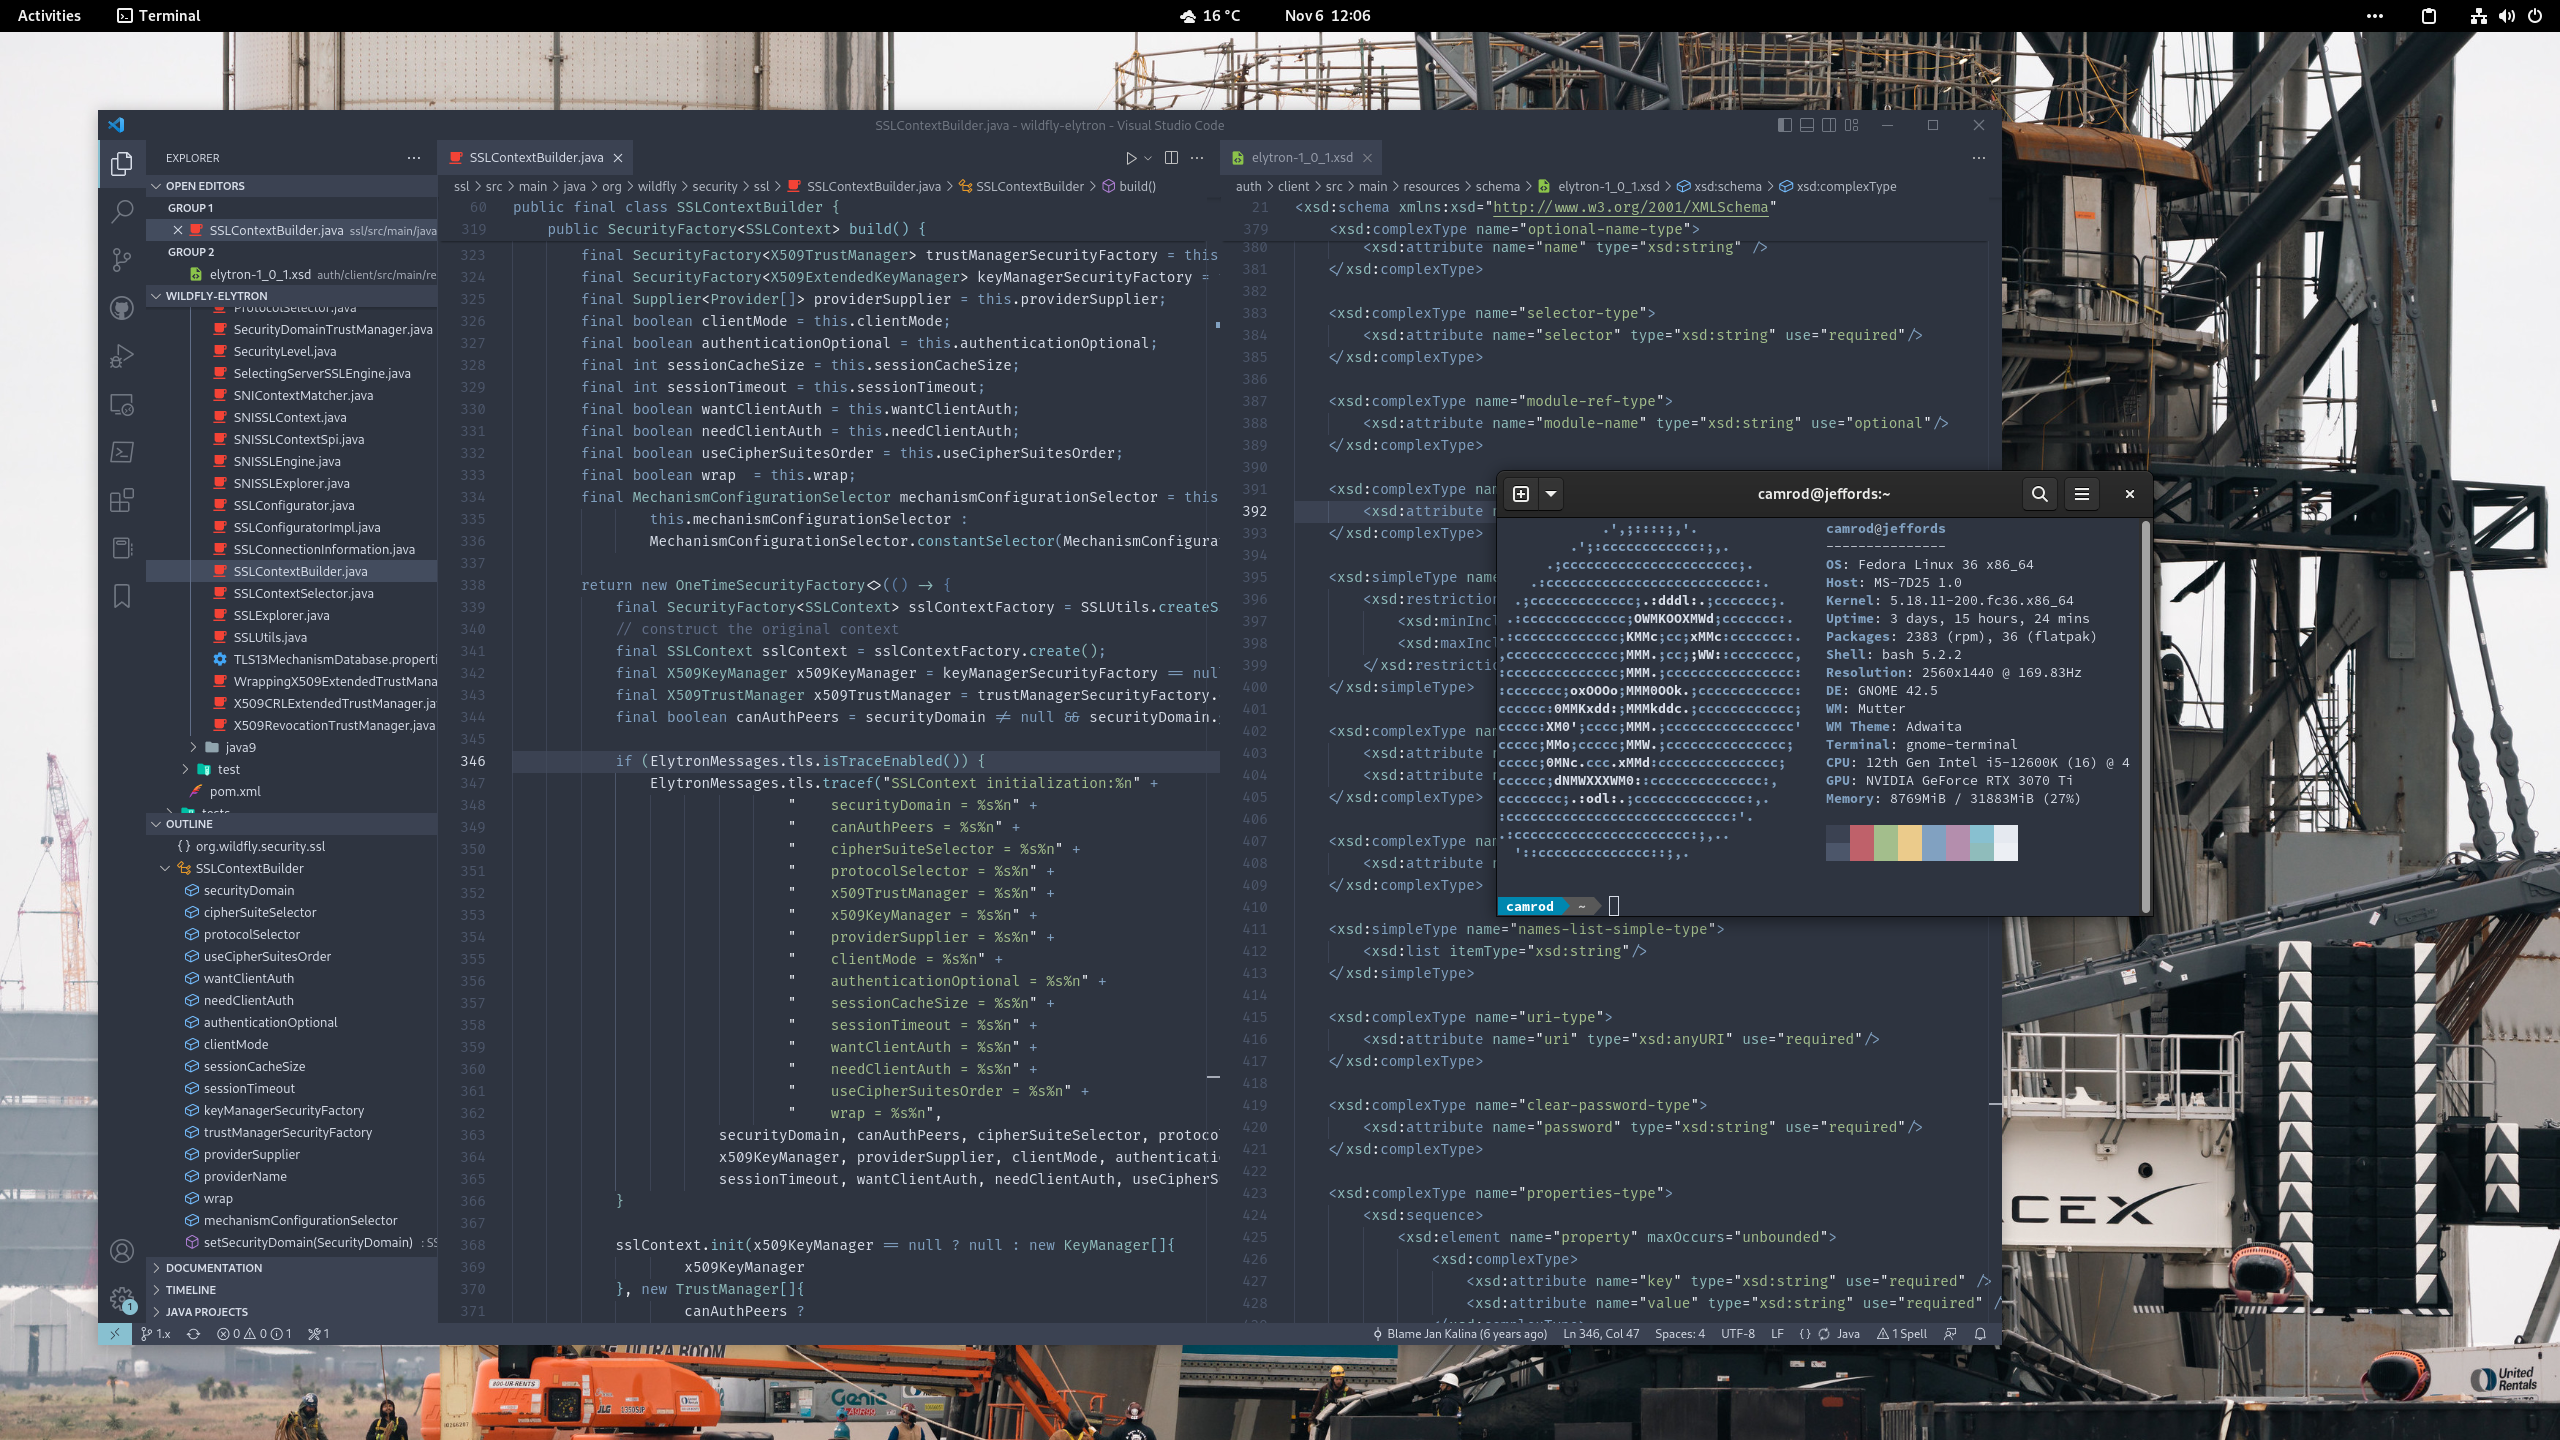
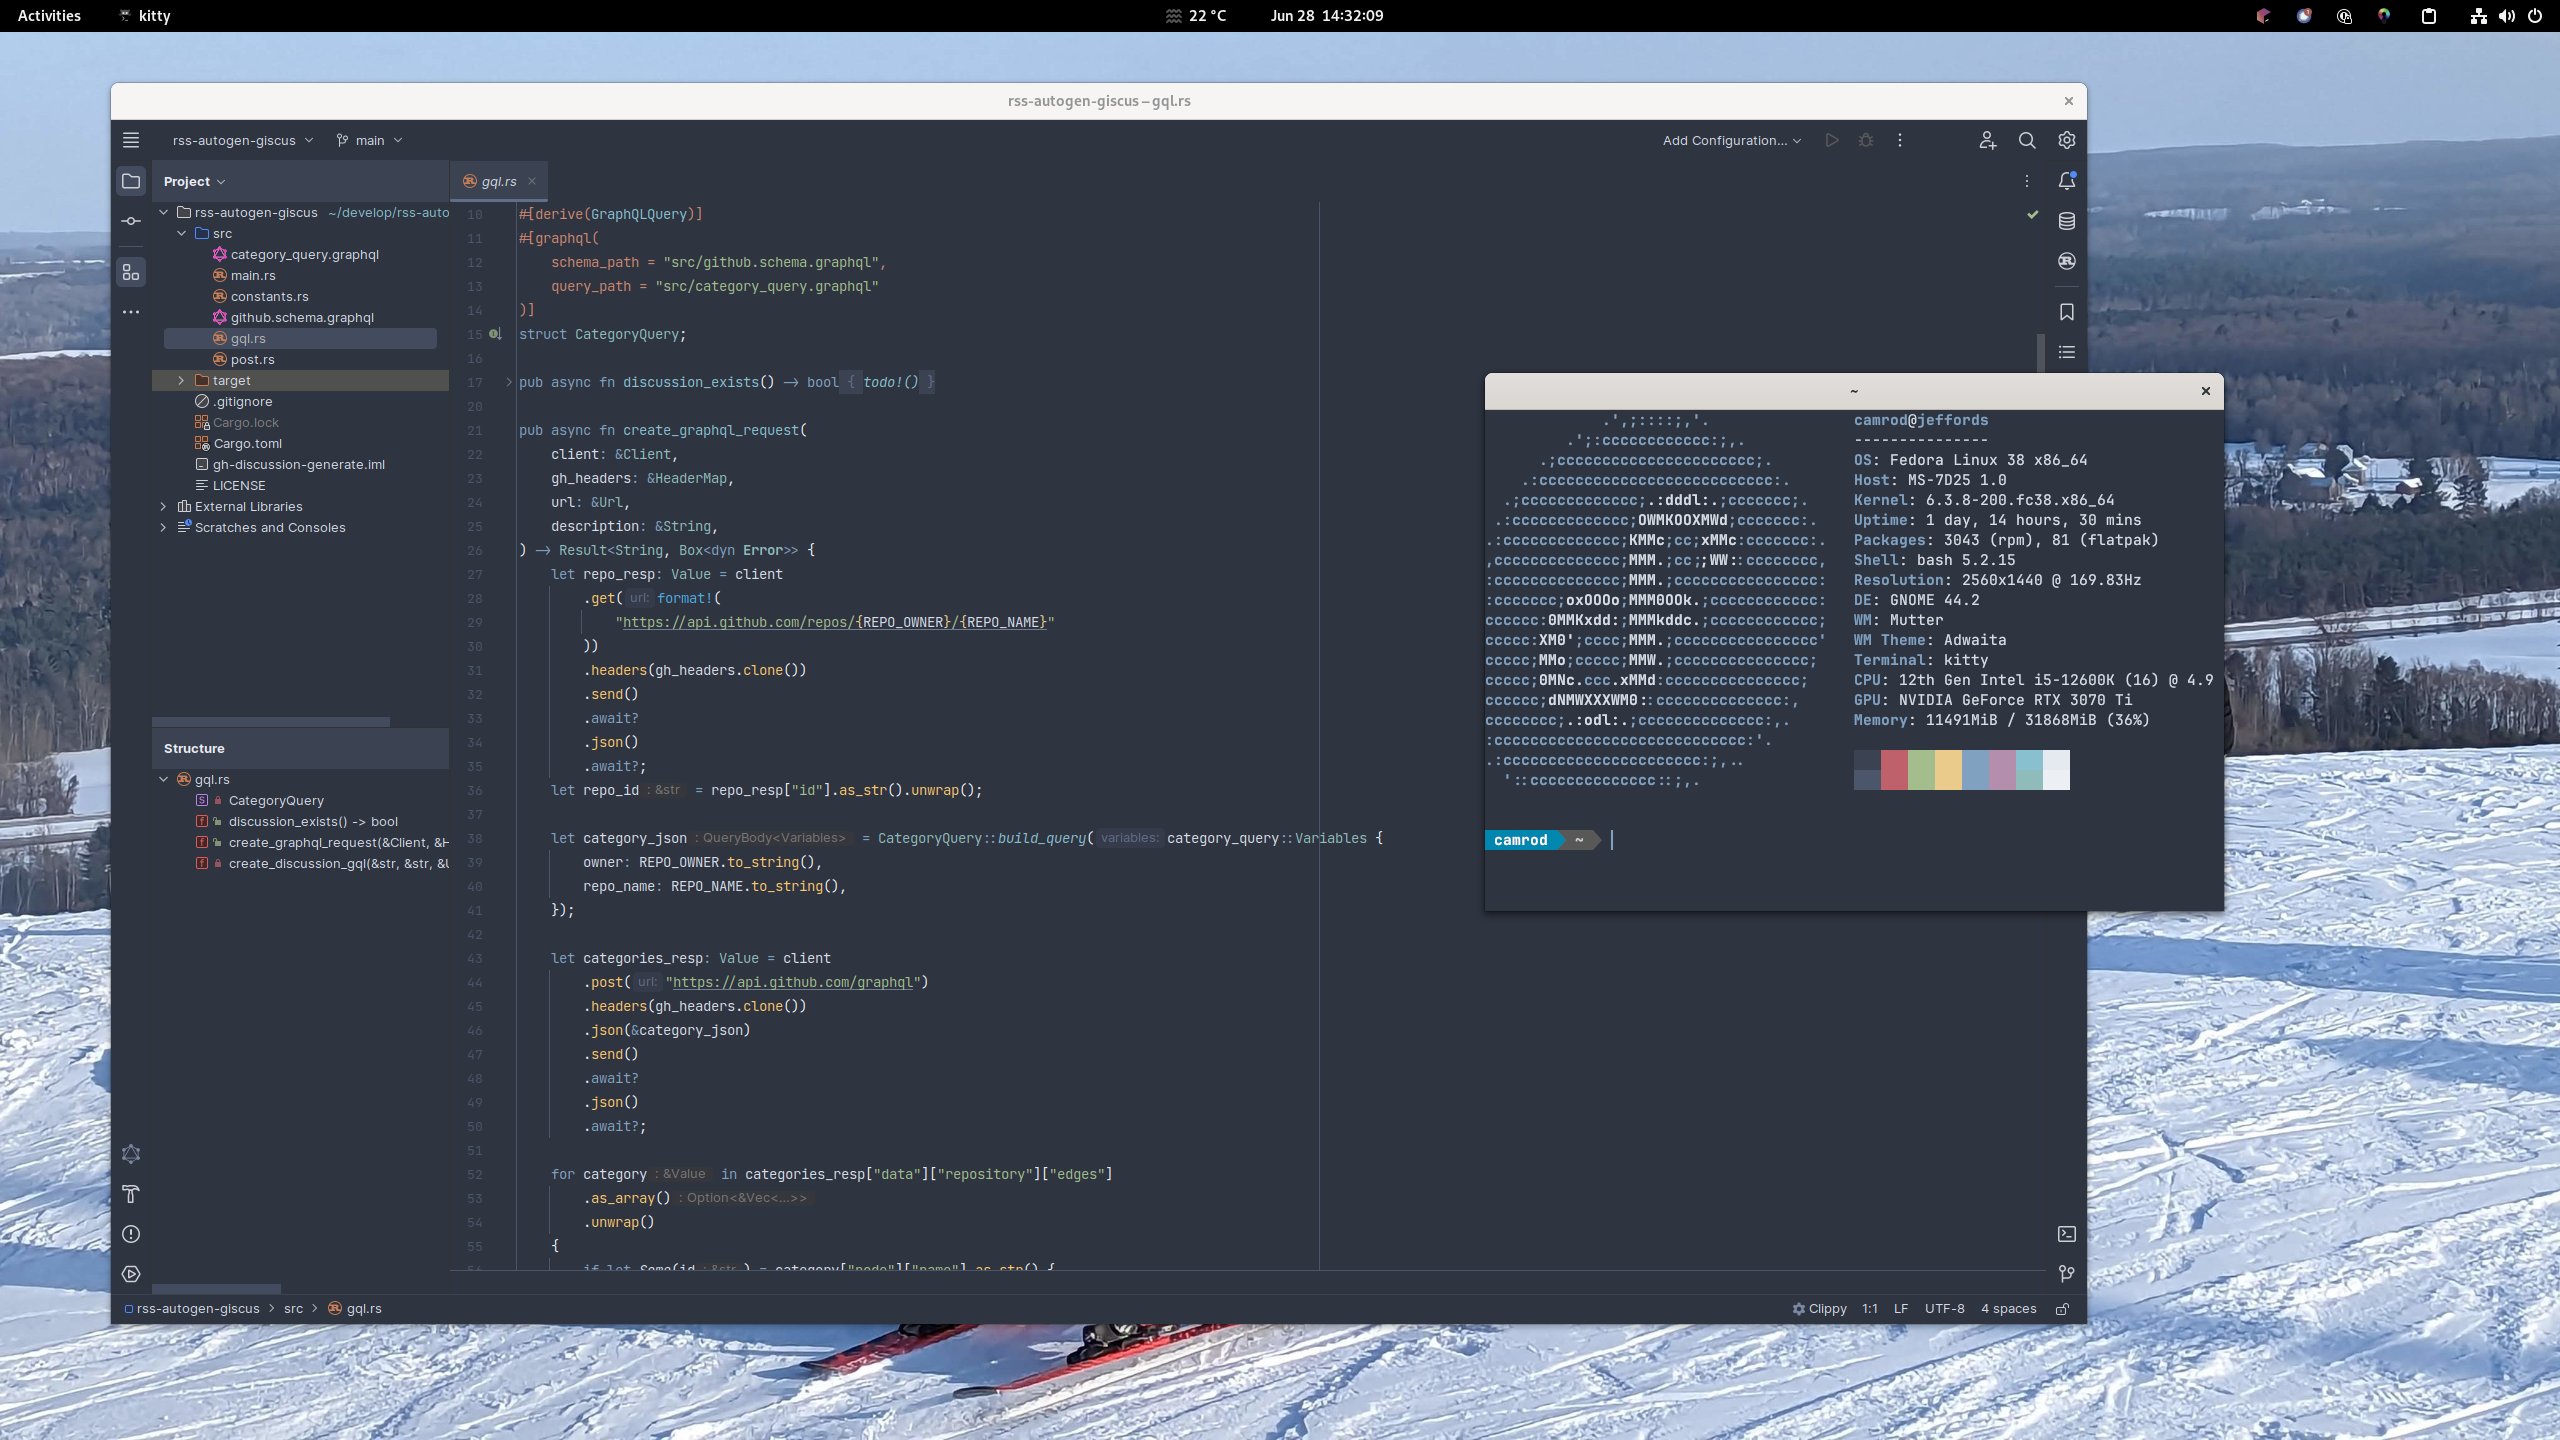
update theme photo

diff --git a/README.md b/README.md
@@ -6,9 +6,9 @@ I haven't put much work into making this easy to setup, so no guarantees are mad
 
 ## Details
 
-<img alt="Screenshot of my Fedora desktop, featuring VS Code and GNOME Terminal (now replaced by kitty). VS Code is opened to cam-rod/wildfly-elytron, and GNOME Terminal shows neofetch." style="max-width: 100%; height: auto; display: block; margin: 0px auto;" src=./assets/cam-rod_theme.png><br>
+<img alt="Screenshot of my Fedora desktop, featuring CLion and kitty. CLion is opened to cam-rod/rss-autogen-giscus, and kitty shows neofetch." style="max-width: 100%; height: auto; display: block; margin: 0px auto;" src=./assets/cam-rod_theme.png><br>
 
-- Core editors: [VS Code](https://github.com/Microsoft/vscode/) + [IntelliJ](https://www.jetbrains.com/idea/) + [Vim](https://github.com/vim/vim)
+- Core editors: [VS Code](https://github.com/Microsoft/vscode/) + [JetBrains IDEs](https://www.jetbrains.com/) + [Vim](https://github.com/vim/vim)
 - OS/DE: [Fedora Workstation](https://getfedora.org/en/workstation/) with [GNOME](https://www.gnome.org/)
 - Terminal: [kitty](https://github.com/kovidgoyal/kitty)
 - Theme: [Nord](https://github.com/arcticicestudio/nord)
